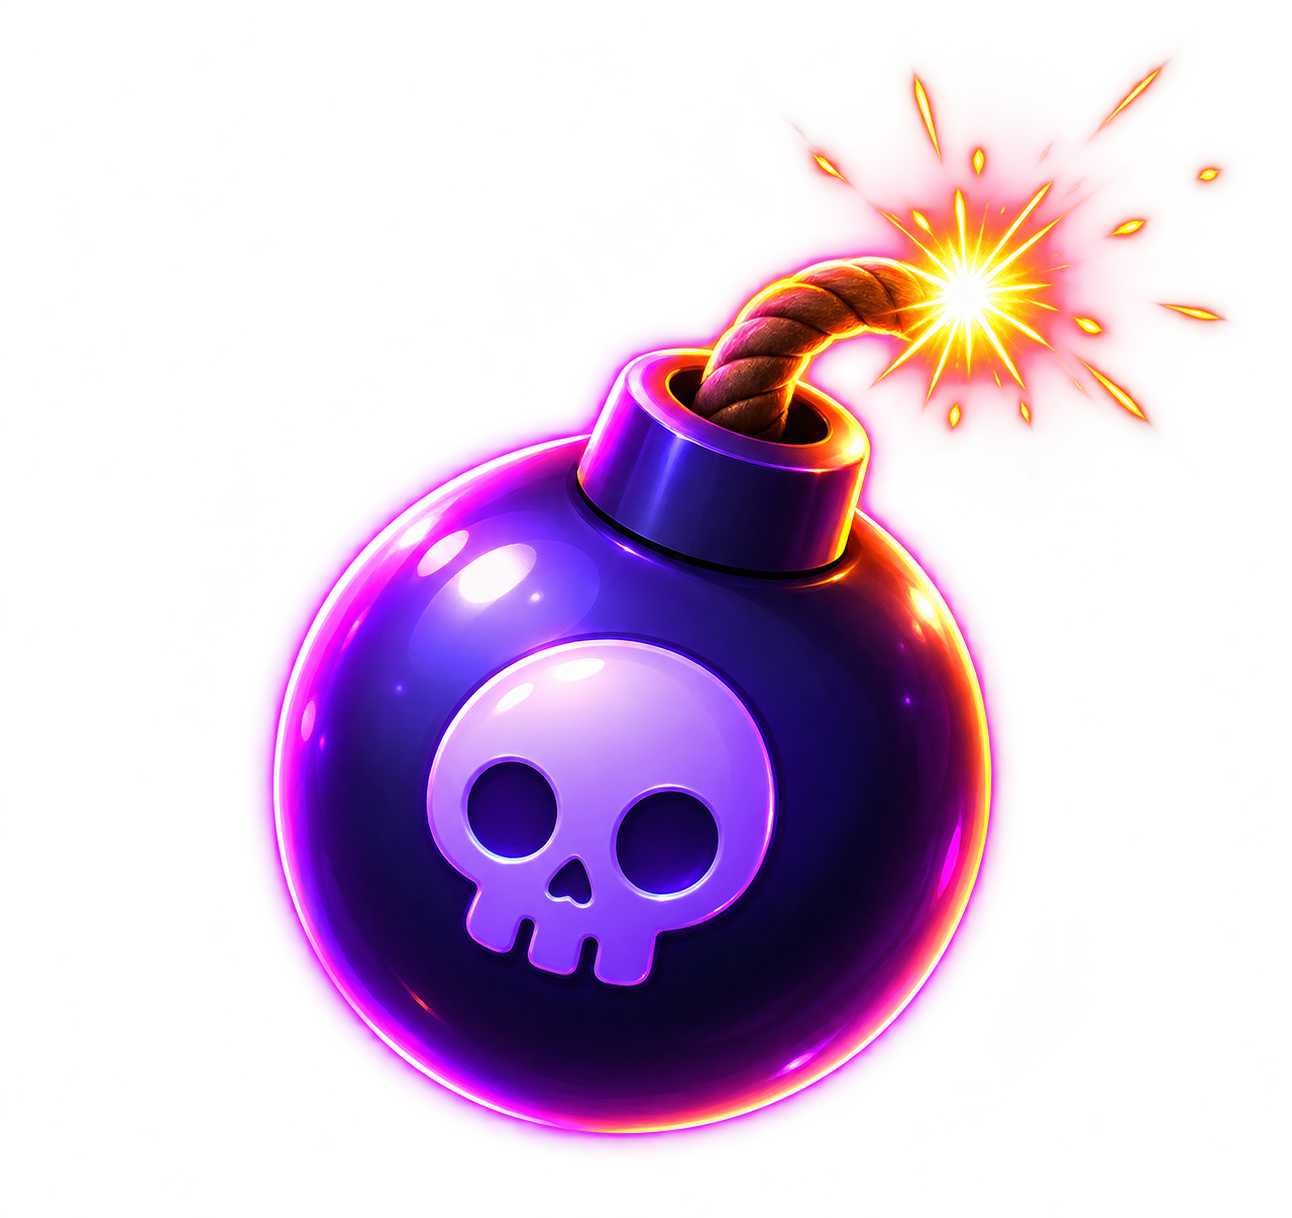
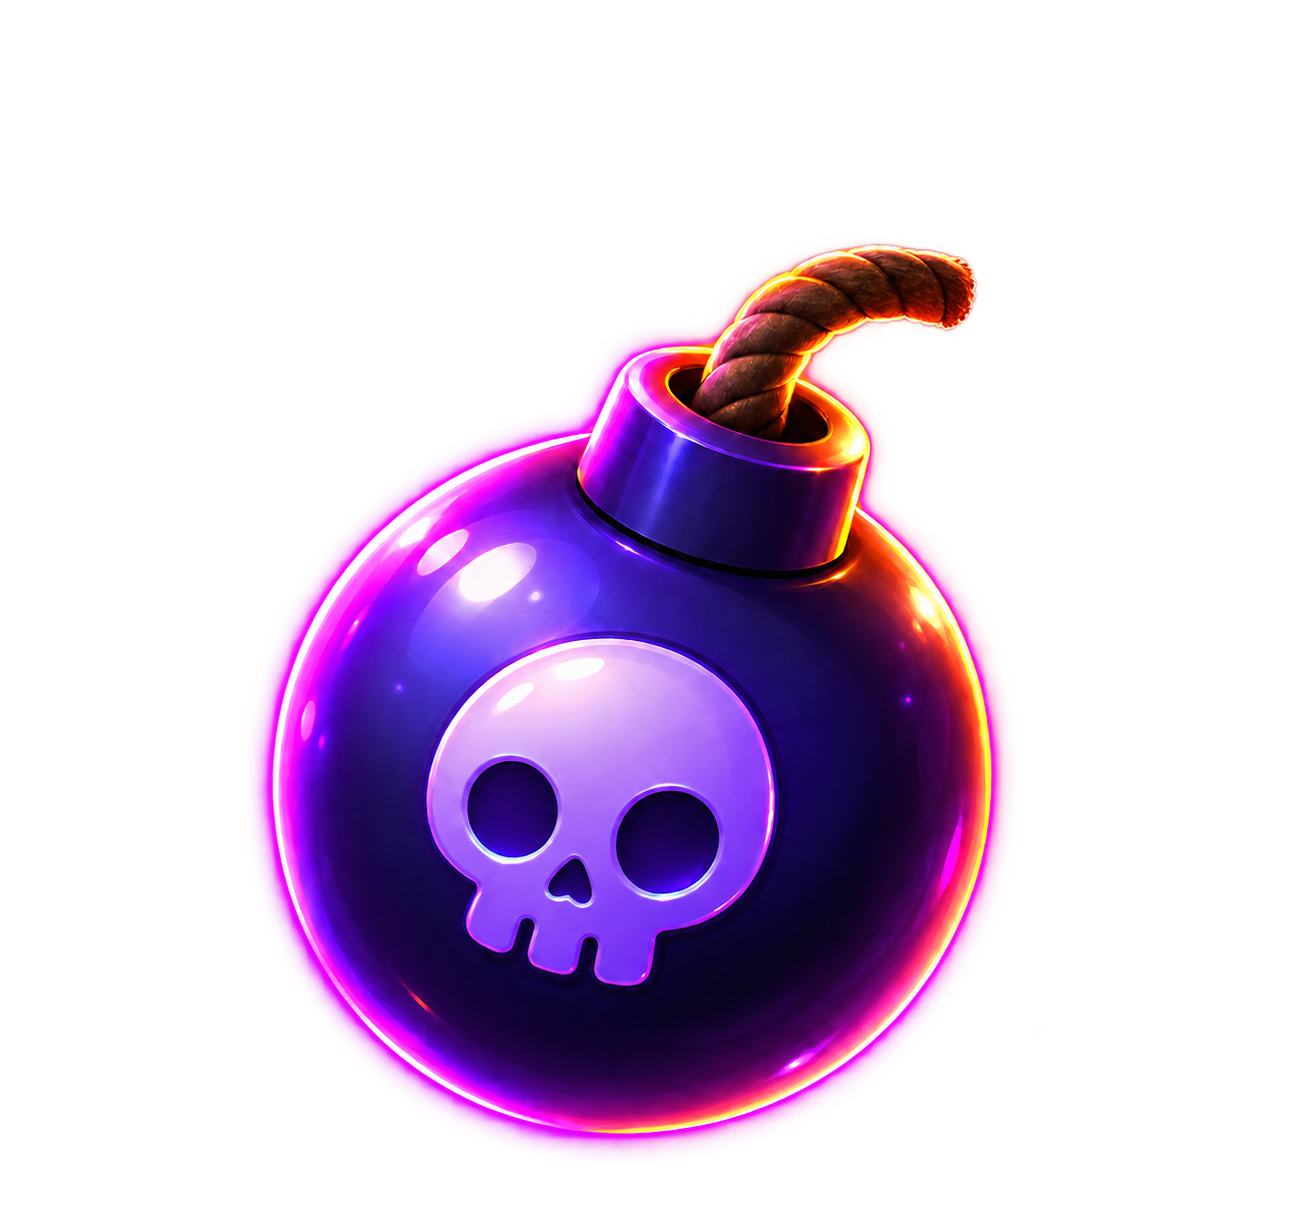
Add files via upload

diff --git a/app.js b/app.js
@@ -494,14 +494,19 @@ function animateBombTension(state) {
     ], { duration:950, iterations:Infinity, easing:"ease-in-out" });
     glow.currentTime = elapsed;
   }
-  document.querySelectorAll(".bomb-spark-particle").forEach((particle, index) => {
-    const angle = index * Math.PI * 2 / 7;
-    const distance = 12 + index % 3 * 5;
+  document.querySelectorAll(".bomb-spark-particle").forEach((particle, index, particles) => {
+    const angle = -Math.PI / 2 + index * Math.PI * 2 / particles.length;
+    const phase = (index * 113) % 520;
+    const distance = 20 + index % 4 * 9;
+    const dx = Math.cos(angle) * distance;
+    const dy = Math.sin(angle) * distance;
+    const rotation = angle * 180 / Math.PI + 90;
     const effect = particle.animate([
-      { opacity:0, transform:"translate(-50%,-50%) scale(.4)", offset:0 },
-      { opacity:1, transform:"translate(-50%,-50%) scale(1)", offset:.15 },
-      { opacity:0, transform:`translate(calc(-50% + ${Math.cos(angle)*distance}px),calc(-50% + ${Math.sin(angle)*distance}px)) scale(.2)` }
-    ], { duration:700 + index * 45, delay:index * 95, iterations:Infinity, easing:"ease-out" });
+      { opacity:0, transform:`translate(-50%,-50%) rotate(${rotation}deg) scale(.2,.4)`, offset:0 },
+      { opacity:1, transform:`translate(-50%,-50%) rotate(${rotation}deg) scale(1,1)`, offset:.12 },
+      { opacity:.85, transform:`translate(calc(-50% + ${dx*.35}px),calc(-50% + ${dy*.35}px)) rotate(${rotation}deg) scale(.8,.8)`, offset:.38 },
+      { opacity:0, transform:`translate(calc(-50% + ${dx}px),calc(-50% + ${dy}px)) rotate(${rotation}deg) scale(.1,.25)` }
+    ], { duration:420 + index % 5 * 75, delay:phase, iterations:Infinity, easing:"ease-out" });
     effect.currentTime = elapsed;
   });
 
@@ -529,31 +534,65 @@ function animateBombExplosion(state) {
     { opacity:0, transform:`translate(calc(-50% + ${dx}px),calc(-50% + ${dy}px)) scale(.9)` }
   ], 420);
   play(".bomb-impact-flash", [
-    {opacity:0,transform:"scale(.2)"}, {opacity:.9,transform:"scale(1)",offset:.25}, {opacity:0,transform:"scale(1.5)"}
-  ], 450, 400);
-  for (let i=0;i<8;i++) {
-    const a=i*Math.PI/4;
+    {opacity:0,transform:"scale(.15)"},
+    {opacity:1,transform:"scale(1)",offset:.12},
+    {opacity:.75,transform:"scale(1.2)",offset:.3},
+    {opacity:0,transform:"scale(1.8)"}
+  ], 680, 390);
+  play(".bomb-impact-core", [
+    {opacity:0,transform:"scale(.2)"},
+    {opacity:1,transform:"scale(1.15)",offset:.18},
+    {opacity:.7,transform:"scale(.85)",offset:.45},
+    {opacity:0,transform:"scale(.3)"}
+  ], 620, 390);
+  play(".bomb-impact-ring", [
+    {opacity:1,transform:"scale(.1)"},
+    {opacity:.95,transform:"scale(1)",offset:.12},
+    {opacity:.65,transform:"scale(2.7)",offset:.58},
+    {opacity:0,transform:"scale(3.5)"}
+  ], 850, 390);
+  play(".bomb-arena", [
+    {transform:"translateX(0)"},
+    {transform:"translateX(-6px)",offset:.12},
+    {transform:"translateX(5px)",offset:.24},
+    {transform:"translateX(-4px)",offset:.38},
+    {transform:"translateX(3px)",offset:.53},
+    {transform:"translateX(0)"}
+  ], 620, 390);
+  for (let i=0;i<16;i++) {
+    const a=-Math.PI/2+i*Math.PI*2/16;
+    const puffSize=34+(i%4)*12;
+    const dx=Math.cos(a)*(34+(i%3)*14);
+    const dy=Math.sin(a)*(20+(i%4)*10)-23;
     play(`.bomb-smoke-${i}`, [
-      {opacity:0,transform:"translate(-50%,-50%) scale(.3)"},
-      {opacity:.65,transform:`translate(calc(-50% + ${Math.cos(a)*18}px),calc(-50% + ${Math.sin(a)*14}px)) scale(1)`,offset:.2},
-      {opacity:0,transform:`translate(calc(-50% + ${Math.cos(a)*42}px),calc(-50% + ${Math.sin(a)*24-24}px)) scale(1.8)`}
-    ], 1150, 430+i*20);
+      {opacity:0,transform:"translate(-50%,-50%) scale(.2)"},
+      {opacity:.82,transform:`translate(calc(-50% + ${dx*.35}px),calc(-50% + ${dy*.35}px)) scale(1.05)`,offset:.2},
+      {opacity:.62,transform:`translate(calc(-50% + ${dx}px),calc(-50% + ${dy}px)) scale(1.65)`,offset:.62},
+      {opacity:0,transform:`translate(calc(-50% + ${dx*1.2}px),calc(-50% + ${dy*1.25}px)) scale(2.1)`}
+    ], 1450+(i%4)*110, 410+(i%5)*32);
     play(`.bomb-impact-bit-${i}`, [
-      {opacity:0,transform:"translate(-50%,-50%) scale(.4)"},
-      {opacity:1,transform:"translate(-50%,-50%) scale(1)",offset:.1},
-      {opacity:0,transform:`translate(calc(-50% + ${Math.cos(a)*55}px),calc(-50% + ${Math.sin(a)*55}px)) scale(.1)`}
-    ], 550, 410);
+      {opacity:0,transform:"translate(-50%,-50%) scale(.1)"},
+      {opacity:1,transform:"translate(-50%,-50%) scale(1.3)",offset:.12},
+      {opacity:1,transform:`translate(calc(-50% + ${Math.cos(a)*puffSize*1.7}px),calc(-50% + ${Math.sin(a)*puffSize*1.7}px)) scale(.9)`,offset:.6},
+      {opacity:0,transform:`translate(calc(-50% + ${Math.cos(a)*puffSize*2}px),calc(-50% + ${Math.sin(a)*puffSize*2}px)) scale(.1)`}
+    ], 700+(i%3)*100, 390);
   }
-  play(".bomb-player.is-hit .bomb-player-badge", [
+  play(".bomb-player.is-hit .bomb-player-avatar", [
+    {transform:"scale(1)",boxShadow:"0 0 0 rgba(255,190,80,0)"},
+    {transform:"scale(1.2)",boxShadow:"0 0 38px 12px rgba(255,184,79,.95)",offset:.22},
+    {transform:"scale(.96)",boxShadow:"0 0 22px 6px rgba(179,91,255,.75)",offset:.52},
+    {transform:"scale(1)",boxShadow:"0 0 0 rgba(255,190,80,0)"}
+  ], 900, 390);
+  play(".bomb-player.is-hit .bomb-player-badge",[
     {transform:"translateX(0)",filter:"brightness(1)"},
     {transform:"translateX(-3px)",filter:"brightness(1.6)",offset:.2},
     {transform:"translateX(3px)",filter:"brightness(1.2)",offset:.45},
     {transform:"translateX(0)",filter:"brightness(1)"}
-  ], 420, 410);
+  ], 600, 390);
   play(".bomb-lost-heart", [
     {opacity:1,transform:"translateY(0) scale(1)"},
     {opacity:0,transform:"translateY(-14px) scale(1.5)"}
-  ], 550, 450);
+  ], 750, 390);
 }
 
 function renderBombGame() {
@@ -595,8 +634,8 @@ function renderBombGame() {
     <div class="bomb-content">
       <div class="bomb-arena" aria-label="Joueurs autour de la bombe">
         <div class="bomb-orbit"></div>${players}
-        ${exploding && unlucky ? `<div class="bomb-impact" aria-hidden="true" style="left:${50+40*Math.cos(2*Math.PI*state.players.indexOf(unlucky)/state.players.length-Math.PI/2)}%;top:${50+40*Math.sin(2*Math.PI*state.players.indexOf(unlucky)/state.players.length-Math.PI/2)}%"><span class="bomb-impact-flash"></span>${Array.from({length:8},(_,i)=>`<i class="bomb-smoke bomb-smoke-${i}"></i><i class="bomb-impact-bit bomb-impact-bit-${i}"></i>`).join("")}</div>` : ""}
-        <div class="bomb-center ${exploding ? "is-flying" : ""}" aria-label="${active ? "Bombe en cours" : "Manche terminée"}"><div class="bomb-art"><img src="/bomb-neon.png?v=1.48.0-bombe-assets2" alt="">${active ? '<span class="bomb-spark" aria-hidden="true"></span><i class="bomb-spark-particle" aria-hidden="true"></i><i class="bomb-spark-particle" aria-hidden="true"></i><i class="bomb-spark-particle" aria-hidden="true"></i><i class="bomb-spark-particle" aria-hidden="true"></i><i class="bomb-spark-particle" aria-hidden="true"></i><i class="bomb-spark-particle" aria-hidden="true"></i><i class="bomb-spark-particle" aria-hidden="true"></i>' : ""}</div></div>
+        ${exploding && unlucky ? `<div class="bomb-impact" aria-hidden="true" style="left:${50+40*Math.cos(2*Math.PI*state.players.indexOf(unlucky)/state.players.length-Math.PI/2)}%;top:${50+40*Math.sin(2*Math.PI*state.players.indexOf(unlucky)/state.players.length-Math.PI/2)}%"><span class="bomb-impact-ring"></span><span class="bomb-impact-ring bomb-impact-ring-second"></span><span class="bomb-impact-flash"></span><span class="bomb-impact-core"></span>${Array.from({length:16},(_,i)=>`<i class="bomb-smoke bomb-smoke-${i}" style="--smoke-size:${38+(i%5)*13}px"></i><i class="bomb-impact-bit bomb-impact-bit-${i}"></i>`).join("")}</div>` : ""}
+        <div class="bomb-center ${exploding ? "is-flying" : ""}" aria-label="${active ? "Bombe en cours" : "Manche terminée"}"><div class="bomb-art"><img src="/bomb-neon.png?v=1.48.0-bombe-assets3" alt="">${active ? '<span class="bomb-spark" aria-hidden="true"></span>'+Array.from({length:16},()=>'<i class="bomb-spark-particle" aria-hidden="true"></i>').join("") : ""}</div></div>
         ${lastAnswerPlayer && bomb.lastAnswer?.answer ? `<div class="bomb-last-word" aria-live="polite"><span>${escapeHtml(lastAnswerPlayer.name)} a écrit</span><strong>${escapeHtml(bomb.lastAnswer.answer)}</strong></div>` : ""}
         ${active && current ? `<div class="bomb-pointer" style="--bomb-angle:${360 * state.players.indexOf(current) / state.players.length - 90}deg" aria-hidden="true"><img src="/bomb-arrow-neon.png?v=1.48.0-bombe-assets2" alt=""></div>` : ""}
       </div>

diff --git a/style.css b/style.css
@@ -2300,17 +2300,27 @@ html body .screen.bomb-screen {
 .bomb-player.is-out { opacity:.38;filter:grayscale(1); }
 .bomb-center { position:absolute;top:50%;left:50%;transform:translate(-50%,-50%);z-index:2;width:92px;height:87px;display:grid;place-items:center;overflow:visible; }
 .bomb-art { position:relative;width:100%;height:100%;transform-origin:50% 50%; }
-.bomb-spark { position:absolute;left:77%;top:8%;width:9px;height:9px;pointer-events:none;opacity:.45;transform:translate(-50%,-50%);border-radius:50%;background:radial-gradient(circle,#fffde3 0 15%,#ffe37699 40%,#ffb32a00 72%);box-shadow:0 0 7px #ffdc6680; }
+.bomb-spark { position:absolute;left:77%;top:8%;width:16px;height:16px;pointer-events:none;opacity:.65;transform:translate(-50%,-50%);border-radius:50%;background:radial-gradient(circle,#fff 0 12%,#fff4a4 22%,#ffc43c 40%,#ff9c2100 74%);box-shadow:0 0 7px 3px #ffe276,0 0 18px 7px #ff9f34d9,0 0 30px 11px #f342ff88;animation:bomb-spark-flicker .42s steps(1,end) infinite; }
+.bomb-spark::before,.bomb-spark::after { content:"";position:absolute;left:50%;top:50%;background:linear-gradient(90deg,transparent,#fffde2 42%,#ffcf59 55%,transparent);filter:drop-shadow(0 0 4px #ffda69); }
+.bomb-spark::before { width:34px;height:3px;transform:translate(-50%,-50%); }
+.bomb-spark::after { width:3px;height:34px;transform:translate(-50%,-50%); }
+@keyframes bomb-spark-flicker { 0%,100% { opacity:.48;transform:translate(-50%,-50%) scale(.7); } 8% { opacity:1;transform:translate(-50%,-50%) scale(1.2); } 12% { opacity:.65;transform:translate(-50%,-50%) scale(.9); } 34% { opacity:1;transform:translate(-50%,-50%) scale(1.3); } 38% { opacity:.55;transform:translate(-50%,-50%) scale(.8); } 63% { opacity:.9;transform:translate(-50%,-50%) scale(1.1); } 66% { opacity:.5;transform:translate(-50%,-50%) scale(.72); } 82% { opacity:1;transform:translate(-50%,-50%) scale(1.25); } }
 .bomb-art > img { display:block;width:100%;height:100%;object-fit:contain;transform:translateY(-16%);filter:drop-shadow(0 0 9px #a94cff75); }
 .bomb-last-word { position:absolute;top:calc(50% + 46px);left:50%;transform:translateX(-50%);z-index:4;display:grid;justify-items:center;gap:2px;width:max-content;max-width:calc(100% - 24px);box-sizing:border-box;padding:4px 10px;border:1px solid #b86aff;border-radius:10px;background:linear-gradient(135deg,#24104eeF,#11163ff2);box-shadow:0 0 12px #b34cff88,inset 0 0 8px #a745ff32; }
 .bomb-last-word span { max-width:100%;overflow:hidden;text-overflow:ellipsis;white-space:nowrap;color:#c8b5ff;font-size:8px;font-weight:800;line-height:1.1; }
 .bomb-last-word strong { max-width:100%;overflow-wrap:anywhere;color:#fff;font-size:12px;line-height:1.1; }
 .bomb-center.is-flying { z-index:8; }
-.bomb-spark-particle { position:absolute;left:77%;top:8%;width:2px;height:2px;border-radius:50%;background:#ffe697;box-shadow:0 0 3px #ffac38;opacity:0;pointer-events:none; }
+.bomb-player-avatar { position:relative; }
+.bomb-spark-particle { position:absolute;left:77%;top:8%;width:4px;height:13px;border-radius:60% 60% 45% 45%;transform-origin:50% 0;background:linear-gradient(180deg,#fff 0%,#fff3a1 24%,#ffb12e 65%,#ff6a2a00 100%);box-shadow:0 0 5px 2px #ffdb62,0 0 12px 4px #ff8a30,0 0 20px 5px #f445ff77;opacity:0;pointer-events:none; }
 .bomb-impact { position:absolute;z-index:9;width:0;height:0;pointer-events:none; }
-.bomb-impact-flash { position:absolute;left:-42px;top:-42px;width:84px;height:84px;border-radius:50%;opacity:0;background:radial-gradient(circle,#fffde3 0%,#ffd269 22%,#ff814499 45%,#ac48ff00 72%); }
-.bomb-smoke { position:absolute;left:0;top:0;width:36px;height:32px;border-radius:48%;opacity:0;background:radial-gradient(ellipse,#c5b4dce6,#79668f99 50%,#5e497800 75%); }
-.bomb-impact-bit { position:absolute;left:0;top:0;width:4px;height:4px;border-radius:50%;opacity:0;background:#ffcc70;box-shadow:0 0 5px #ff984a; }
+.bomb-impact-ring { position:absolute;left:-18px;top:-18px;width:36px;height:36px;border:4px solid #fff2aa;border-radius:50%;opacity:0;box-shadow:0 0 16px 5px #ffb742,0 0 35px 10px #f454ff; }
+.bomb-impact-ring-second { border-color:#ee9fff;box-shadow:0 0 18px 5px #b84dff,0 0 38px 12px #9c35ff; }
+.bomb-impact-flash { position:absolute;left:-112px;top:-112px;width:224px;height:224px;border-radius:50%;opacity:0;background:radial-gradient(circle,#fff 0%,#fff3b9 9%,#ffd269 18%,#ff8c4be0 34%,#ed47ff85 54%,#ac48ff00 76%);filter:drop-shadow(0 0 16px #ffb735); }
+.bomb-impact-core { position:absolute;left:-48px;top:-48px;width:96px;height:96px;border-radius:50%;opacity:0;background:radial-gradient(circle,#fffde5 0%,#ffe270 18%,#ff9b39 42%,#ff54c4 66%,#832fff00 78%);filter:drop-shadow(0 0 17px #ffc14c); }
+.bomb-smoke { position:absolute;left:0;top:0;width:var(--smoke-size,46px);height:calc(var(--smoke-size,46px)*.78);border-radius:48%;opacity:0;background:radial-gradient(ellipse at 45% 42%,#ddd2ecef 0%,#9b89b8e6 34%,#665777c9 62%,#42364b00 78%);filter:drop-shadow(0 3px 7px #201632aa); }
+.bomb-impact-bit { position:absolute;left:0;top:0;width:6px;height:6px;border-radius:50%;opacity:0;background:#fff1a0;box-shadow:0 0 7px 2px #ffd34a,0 0 16px 4px #ff703f; }
+.bomb-impact-bit:nth-child(4n) { width:4px;height:11px;border-radius:4px;background:#ff6be9;box-shadow:0 0 8px 2px #f65fff; }
+@media(prefers-reduced-motion:reduce) { .bomb-spark { animation:none;opacity:.9; } }
 .bomb-lost-heart { display:inline-block; }
 @media(prefers-reduced-motion:reduce) { .bomb-center.is-flying,.bomb-lost-heart { visibility:hidden; } }
 

diff --git a/index.html b/index.html
@@ -13,7 +13,7 @@
   <link rel="preconnect" href="https://fonts.gstatic.com" crossorigin>
   <link href="https://fonts.googleapis.com/css2?family=DM+Sans:wght@400;500;600;700;800;900&display=swap" rel="stylesheet">
 
-  <link rel="stylesheet" href="/style.css?v=1.48.0-bombe-explosion1" />
+  <link rel="stylesheet" href="/style.css?v=1.48.0-bombe-explosion3" />
   <link rel="stylesheet" href="/design-v2.css?v=1.48.0" />
   <link rel="stylesheet" href="/amis.css?v=1.48.0" />
   <link rel="stylesheet" href="/economy.css?v=1.48.0" />
@@ -1892,7 +1892,7 @@
 
   <script defer src="/socket.io/socket.io.js"></script>
   <script defer src="/mobile-runtime.js?v=1.48.0"></script>
-  <script defer src="/app.js?v=1.48.0-bombe-explosion1"></script>
+  <script defer src="/app.js?v=1.48.0-bombe-explosion3"></script>
   <script defer src="/account-v1.js?v=1.48.0"></script>
   <script defer src="/avatar-system-v1.js?v=1.48.0-prestige1"></script>
   <script defer src="/inventory-client.js?v=1.48.0-prestige1"></script>
